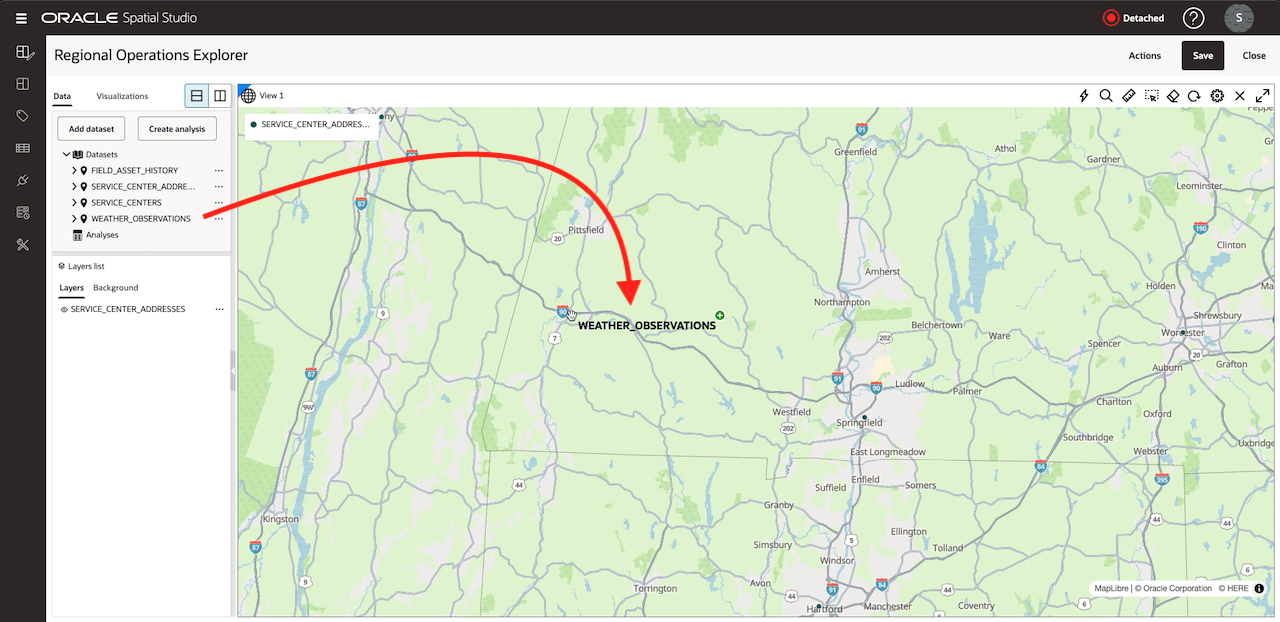
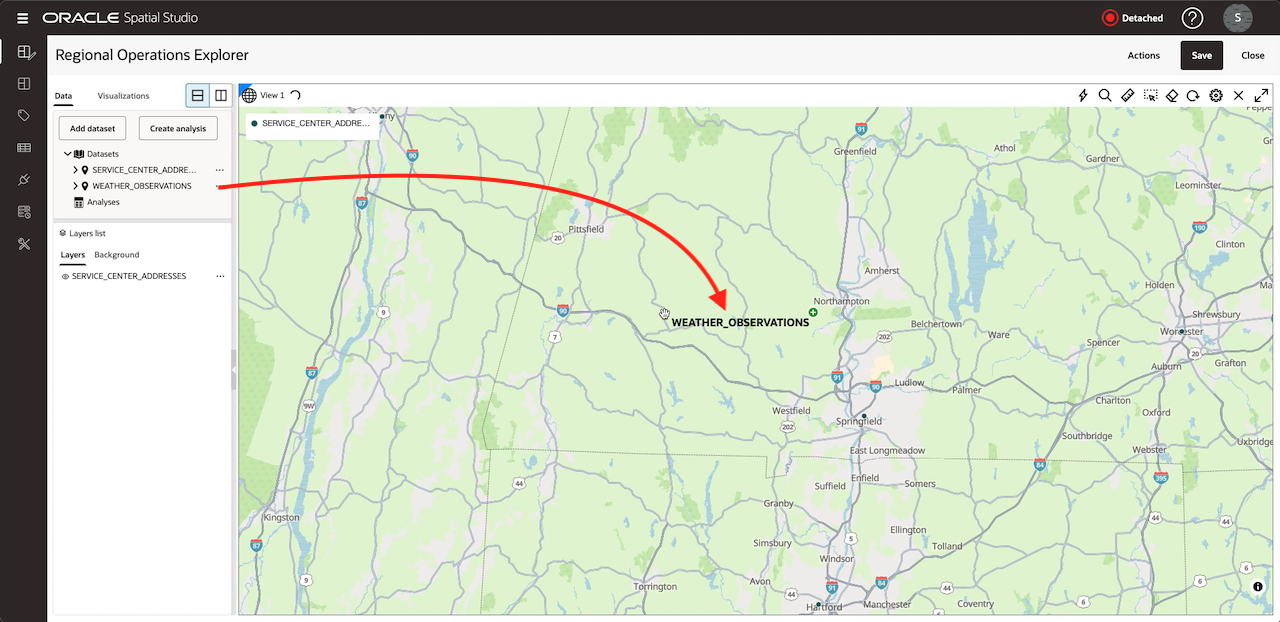
spatial studio on adbs livelab development
spatial studio on adbs livelab development

diff --git a/spatial-studio/adbs-apply-redline/redline-tools.md b/spatial-studio/adbs-apply-redline/redline-tools.md
@@ -16,53 +16,65 @@ In this lab, you will:
 
 ## Task 1: Draw an advisory area and access route
 
-1. Open `Regional Operations Explorer` and zoom to the service centers.
+1. Under Data, click **Add dataset**, then select `SERVICE_CENTERS`. Click **OK**.
 
-2. Select **Actions** on the map toolbar, and then select **Redline**.
+  ![Add service centers dataset](./images/add-service-centers-dataset.png "Add service centers dataset")
 
-3. Select **Draw Polygon** and draw an advisory area that intersects several weather observations.
+2. Drop `SERVICE_CENTERS` onto map.
+
+  ![Add service centers to map](./images/add-service-centers-map.png "Add service centers to map")
+
+3. Select **Actions** on the map toolbar, and then select **Redline**.
+
+  ![Turn on Redline](./images/redline.png "Turn on Redline")
+
+4. Select **Draw Polygon** and draw an advisory area that intersects several weather observations.
+
+  ![Draw polygon](./images/polygon.png "Draw polygon")
+
+    Tip: Right-click and choose **Close polygon** to complete the drawing.
 
 4. Select **Draw Line** and trace a possible access route from the nearest service center into the advisory area.
 
-5. Select **Draw Point** and mark a proposed staging location.
+  ![Draw line](./images/line.png "Draw line")
 
-6. Change the drawing color and add a rectangle or circle to mark another area of interest.
+    Tip: Right-click and choose **Close polygon** to complete the drawing.
+
+5. The orange color of the line is difficult to see. Select the line and click **Edit Feature Properties**, then choose a different color so the line stands out more. You can also change the width.
+
+  ![Edit line](./images/edit-line.png "Edit line")
+
+6. Select **Draw Point** to mark a proposed staging location. Select the point and click **Edit Feature Properties**, then choose a different color so the point stands out more. You can also change the width.
+
+  ![Edit point](./images/point.png "Edit point")
 
 ## Task 2: Edit the Redline features
 
-1. Select **Select Feature**, and then select the advisory polygon.
+1. Select **Select feature**, and then select the advisory polygon.
 
 2. Move one or more vertices to refine its boundary.
 
+  ![Resize polygon](./images/resize-polygon.png "Resize polygon")
+
 3. Open **Edit Feature Properties**, enter `Weather advisory area` as the description, and adjust its fill or outline.
 
-4. Duplicate the staging point and move the copy to a second location.
+  ![Edit polygon](./images/edit-polygon.png "Edit polygon")
 
-5. Select the rectangle, press `ctrl + r`, and drag to rotate it.
+4. Select the polygon and place your mouse near one of the edges. The mouse pointer will turn into a rotation icon. Click and drag to rotate the polygon.
 
-6. Press `ctrl + s` and drag to resize the selected rectangle.
+  ![Rotate polygon](./images/rotate-polygon.png "Rotate polygon")
 
-7. Press `esc` to clear the selection.
+## Task 3: Toggle Visibility
 
-## Task 3: Save and export the drawing set
+1. In the Redline toolbar, select **Toggle Visibility**.
 
-1. Select **Save** to persist the Redline drawings with the project.
+  ![Visibility on](./images/visibility-on.png "Visibility on")
 
-2. In the Redline toolbar, select **Export Features**.
+2. Observe that the shapes appear and disappear as you toggle the button.
 
-3. Select **Download as GeoJson** and save the file as `regional-operations-redline.geojson`.
+  ![Visibility off](./images/visibility-off.png "Visibility off")
 
-4. Note that the export preserves feature IDs and descriptions but does not preserve custom colors or outline widths.
-
-5. Toggle Redline visibility off and on to confirm that the saved features remain available.
-
-## Task 4: Check your work
-
-1. Close and reopen the project.
-
-2. Open the Redline tool again so the saved shapes become editable.
-
-3. Select the advisory polygon and confirm that its description is present.
+3. Select **Save** to persist the Redline drawings with the project.
 
 You may now **proceed to the next lab**.
 
@@ -72,6 +84,5 @@ You may now **proceed to the next lab**.
 
 ## Acknowledgements
 
-- **Authors** - Oracle LiveLabs
-- **Last Updated By/Date** - Oracle LiveLabs, July 2026
-- **Source** - [Style a Map Layer](https://docs.oracle.com/en/cloud/paas/autonomous-database/serverless/adstu/style-map-layer1.html)
+- **Authors** - Denise Myrick, Oracle Database Product Management
+- **Last Updated By/Date** - Denise Myrick, August 2026

diff --git a/spatial-studio/adbs-temporal/temporal.md b/spatial-studio/adbs-temporal/temporal.md
@@ -1,0 +1,89 @@
+# Explore Historical Asset Movement
+
+## Introduction
+
+Time reveals how field assets moved through the operating area. You will configure field-asset history as a non-live moving-object dataset and inspect its timeline before moving into aggregation and analysis.
+
+Estimated Time: 25 minutes
+
+### Objectives
+
+In this lab, you will:
+
+- Enable historical spatiotemporal behavior for moving assets.
+- Add asset history to the project timeline.
+
+## Task 1: Configure the historical asset dataset
+
+1. Save and close the active project, and then open **Datasets**.
+
+  ![Open datasets](./images/datasets.png "Open datasets")
+
+2. Open the properties for `FIELD_ASSET_HISTORY`.
+
+  ![Open properties for Field Asset History](./images/field-properties.png "Open properties for Field Asset History")
+
+3. Locate the spatiotemporal settings and switch **Enable spatiotemporal** on. Select `OBSERVED_AT` as the timestamp column. Switch **Data is live** off and switch **Moving objects** on. Select `ASSET_ID` as the entity identifier and use seconds as the time unit.
+
+  ![Configure spatiotemporal settings](./images/field-asset-spatiotemporal.png "Configure spatiotemporal settings")
+
+4. Apply the changes.
+
+    The workshop timestamps use UTC. Spatial Studio expects UTC or GMT timestamps for moving-object visualization.
+
+## Task 2: Add asset history to the timeline
+
+1. Reopen `Regional Operations Explorer`. Open the **Data** tab, select **Add Dataset**, choose `FIELD_ASSET_HISTORY`, and select **OK**.
+
+  ![Add field asset history dataset](./images/add-field-asset-history.png "Add field asset history dataset")
+
+2.  Drag `FIELD_ASSET_HISTORY` from the Data tab onto the map.
+
+  ![Add field asset history dataset](./images/add-field-asset.png "Add field asset history dataset")
+
+3. Open the map settings, switch **Show timeline** on, and apply the setting.
+
+  ![Show timeline](./images/timeline.png "Show timeline")
+
+4. Open the primary `FIELD_ASSET_HISTORY` layer menu and select **Add to Timeline**.
+
+  ![Add to timeline](./images/add-to-timeline.png "Add to timeline")
+
+5. Open the same layer menu and select **Configure Animation**.
+
+  ![Configure animation](./images/configure-animation.png "Configure animation")
+
+6. Switch **Animate layer based on automatic dataset refresh** on. Set **Time between auto refreshes** to `1` second.
+
+7. Set **How much data to load** to `20` and select **minutes** as its time unit. Apply the settings.
+
+    The data points are ten minutes apart. The one-second refresh makes the short workshop dataset respond promptly to Cesium timeline events.
+
+  ![Configure animation](./images/field-configure-animation.png "Configure animation")
+
+8. Select **Zoom Timeline to Range** for the primary layer. This sets the timeline to the earliest and latest `OBSERVED_AT` values.
+
+  ![Zoom timeline to range](./images/zoom-timeline.png "Zoom timeline to range")
+
+9. Open the timeline settings and set a minute-scale multiplier. Use `Minute (120x)`.
+
+  ![Zoom timeline to range](./images/timeline-settings.png "Zoom timeline to range")
+
+10. Use the timeline controls to play forward, pause, and move to a different time.
+
+11. Confirm that asset locations change across the historical range and that Spatial Studio automatically adds a secondary trail layer for each moving object.
+
+  ![Use timeline controls](./images/timeline-controls.png "Use timeline controls")
+
+You may now **proceed to the next lab**.
+
+## Learn More
+
+- [Enable Spatiotemporal for a Dataset](https://docs.oracle.com/en/cloud/paas/autonomous-database/serverless/adstu/enable-spatiotemporal-dataset.html)
+- [Visualize Spatiotemporal Datasets](https://docs.oracle.com/en/cloud/paas/autonomous-database/serverless/adstu/visualize-spatiotemporal-datasets.html)
+
+## Acknowledgements
+
+- **Authors** - Denise Myrick, Oracle Database Product Management
+- **Last Updated By/Date** - Denise Myrick, August 2026
+- **Source** - [Using Oracle Spatial Studio on Autonomous AI Database, Release 26.1](https://docs.oracle.com/en/cloud/paas/autonomous-database/serverless/adstu/get-started-using-spatial-studio1.html)

diff --git a/spatial-studio/adbs-create-project/create-project.md b/spatial-studio/adbs-create-project/create-project.md
@@ -57,7 +57,7 @@ In this lab, you will:
 
   ![Add dataset](./images/add-dataset.png "Add dataset")
 
-2. Select `SERVICE_CENTER_ADDRESSES`, `SERVICE_CENTERS`, `FIELD_ASSET_HISTORY`, and `WEATHER_OBSERVATIONS`, and then select **OK**.
+2. Select `SERVICE_CENTER_ADDRESSES`, `SERVICE_CENTERS`, and `WEATHER_OBSERVATIONS`, and then select **OK**.
 
   ![Add datasets](./images/add-datasets.png "Add datasets")
 
@@ -69,11 +69,7 @@ In this lab, you will:
 
   ![Add weather observations to map](./images/weather-observations.png "Add weather observations to map")
 
-5. Drag `FIELD_ASSET_HISTORY` onto the map.
-
-  ![Add field asset history to map](./images/field-asset-history.png "Add field asset history to map")
-
-    Spatial Studio renders later layers above earlier layers. Use the Layers list to change visibility while you inspect each dataset.
+5. Spatial Studio renders later layers above earlier layers. Use the Layers list to change visibility while you inspect each dataset.
 
       ![Move layers](./images/move-layers.png "Move layers")
 
@@ -84,7 +80,7 @@ In this lab, you will:
   ![Open settings](./images/service-center-addresses-settings.png "Open settings")
   ![Change formatting](./images/service-center-addresses-layer.png "Change formatting")
 
-2. Open the `WEATHER_OBSERVATIONS` layer settings and apply data-driven color using `WIND_SPEED`.
+2. Open the `WEATHER_OBSERVATIONS` layer settings and apply data-driven color using `WIND_SPEED`. Use **back arrow** to return to **Data**.
 
   ![Open settings](./images/weather-obs-settings.png "Open settings")
   ![Choose based on data](./images/weather-obs-based-on-data.png "Choose based on data")
@@ -102,7 +98,11 @@ In this lab, you will:
 
   ![Highlight map](./images/highlight-table.png "Highlight map")
 
-6. Save the project.
+6. Remove table as it will not be used in follow on labs.
+
+  ![Remove table](./images/remove-table.png "Remove table")
+
+7. Save the project.
 
 ## Learn More
 
@@ -112,6 +112,5 @@ In this lab, you will:
 
 ## Acknowledgements
 
-* **Authors** - Oracle LiveLabs
-* **Last Updated By/Date** - Oracle LiveLabs, July 2026
-* **Source** - [Typical Workflow for Visualizing Spatial Data](https://docs.oracle.com/en/cloud/paas/autonomous-database/serverless/adstu/typical-workflow-visualizing-spatial-data.html)
+- **Authors** Denise Myrick, Oracle Database Product Management
+-* **Last Updated By/Date** - Denise Myrick, Oracle Database Product Management, August 2026

diff --git a/spatial-studio/adbs-spatial-analysis/spatial-analysis.md b/spatial-studio/adbs-spatial-analysis/spatial-analysis.md
@@ -16,13 +16,17 @@ In this lab, you will:
 
 ## Task 1: Create an H3 coverage layer
 
-1. Save the project, open **Datasets**, and open the menu for `WEATHER_OBSERVATIONS`.
+1. Open **Datasets**, and open the menu for `WEATHER_OBSERVATIONS`.
 
 2. Select **Prepare**, and then select **Create H3 Index**.
+
+  ![Create H3 index](./images/create-h3-index.png "Create H3 index")
 
 3. Select the dataset geometry column and select **Count** as the summarize option.
 
 4. Name the result `WEATHER_OBSERVATIONS_H3` and select **OK**.
+
+  ![Create H3 index](./images/h3-index-weather.png "Create H3 index")
 
 5. Wait for the H3 dataset to appear. Add it to `Regional Operations Explorer` and drag it onto the map.
 
